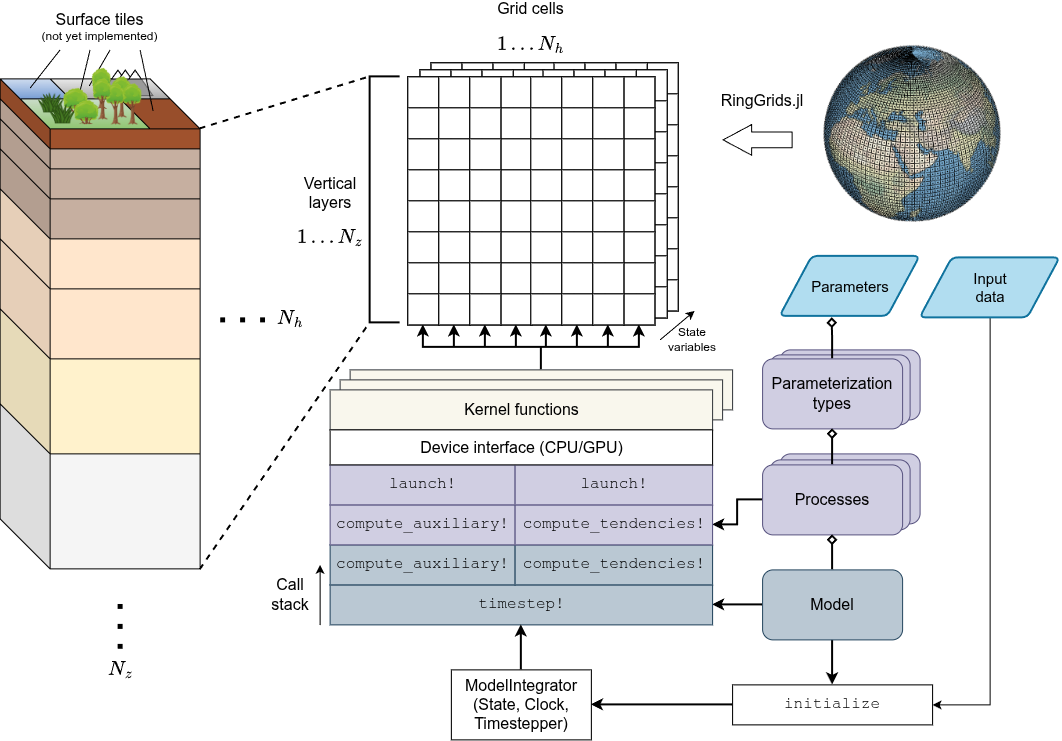
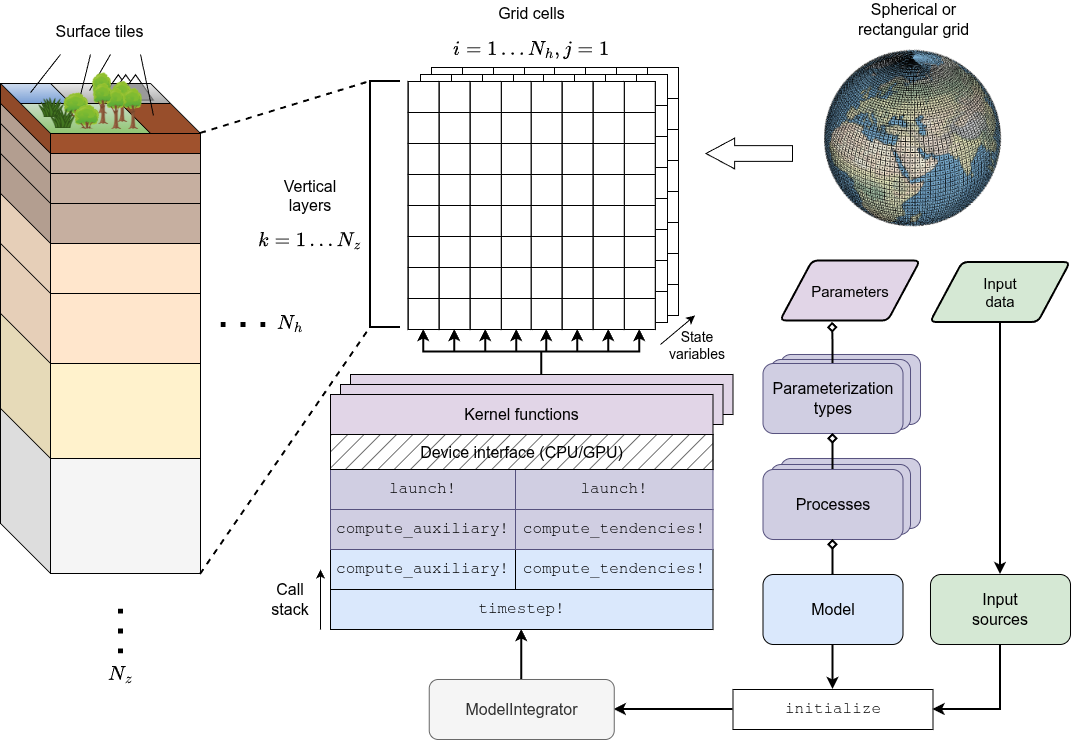
Update and add more explanation for Figure 1

diff --git a/docs/joss/paper.md b/docs/joss/paper.md
@@ -95,7 +95,7 @@ As such, Terrarium.jl represents a significant step towards modernizing process-
 
 # Software design
 
-![Overview of the Terrarium.jl software design. Models are built from `Process`es which may contain additional parameterization types that determine which equations and parameters are used. Each `Process` type defines GPU-aware kernels that implement the physics using Oceananigans operators where needed. \label{fig:design}](assets/figure1.png)
+![Overview of the Terrarium.jl software design. Models (blue) are built from one or more `Process`es (purple) which may contain additional parameterization types that determine which equations and parameters are used. Each `Process` type defines GPU-aware kernels that implement the physics using Oceananigans operators where needed. Models and any necessary user inputs (green) -- such as spatially-varying boundary conditions -- are passed to `initialize` which allocates the model state and configures the time stepper. The resulting `integrator` is stepped forward in time using `timestep!` which propagates from the model down to the underlyling `Process`es. Each `Process` defines device-agnostic compute kernels that are "launched" over the underlying spatial grid. \label{fig:design}](assets/figure1.png)
 
 Terrarium.jl is designed to be highly modular, acting as a framework for constructing a multitude of different land model configurations rather than implementing a single, monolithic model.
 This allows Terrarium to serve as a common set of numerical tools and physical process implementations which can serve as the basis for a wide range of land and ecosystem models, spanning both highly detailed local-scale simulations with prescribed boundary conditions and intermediate-complexity global-scale simulations as part of a coupled Earth system model.
